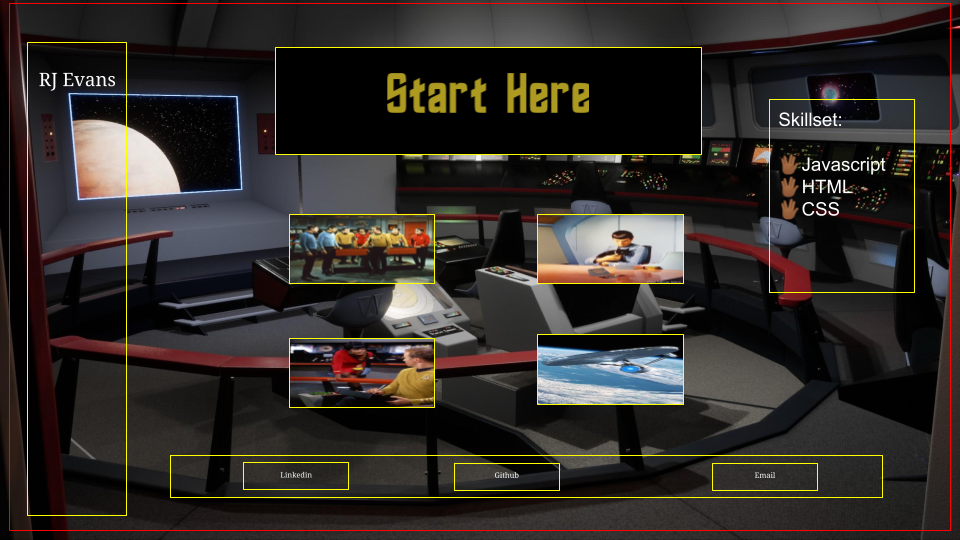
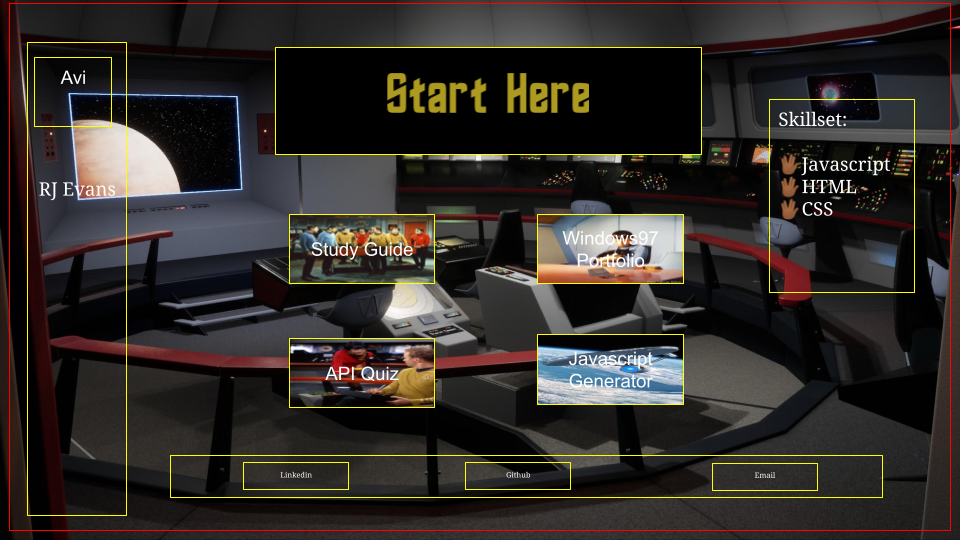
new css/reset updated html new assets

diff --git a/index.html b/index.html
@@ -1,20 +1,79 @@
 <!DOCTYPE html>
-<html lang="en">
-<head>
-    <meta charset="UTF-8">
-    <meta http-equiv="X-UA-Compatible" content="IE=edge">
-    <meta name="viewport" content="width=device-width, initial-scale=1.0">
-    <title>RJ The Original Series</title>
-</head>
-<body>
+<lang="en">
 
+    <head>
+        <meta charset="UTF-8" />
+        <meta http-equiv="X-UA-Compatible" content="IE=edge" />
+        <meta name="viewport" content="width=device-width, initial-scale=1.0" />
+        <title>RJ's Trekfolio</title>
+        <!--title was changed AFTER changes pushed to repo, repo index does not have this title-->
+        <link rel="stylesheet" type="text/css" href="assets/style.css" />
+        <link rel="stylesheet" type="text/css" href="assets/reset.css" />
 
-    <na>
-
-        <img src=""/> <!--needs "start here img inserted, recreate"-->
-    </na>
+    <!--ADD ALT TEXT TO ALL IMG TAGS-->
+    </head>
+    <img>
+    <nav>
+       <button> <img src="assets/starthere.JPG">
+        <!--needs "start here img inserted, recreate"--> <!--add button functionality-->
+    </button>
+    </nav>
 
     <!--add background img to html with css-->
-    
-</body>
-</html>
+
+    <aside class="Name">
+        <h1>RJ Evans</h1>
+    </aside>
+
+    <aside class="Skills">
+        <h2>Skillset:</h2>
+
+        <ol>
+
+            <li>🖖🏾Javascript</li>
+            <br><br>
+            <li>🖖🏾HTML</li>
+            <br><br>
+            <li>🖖🏾CSS</li>
+            <br><br>
+        </ol>
+    </aside>
+
+
+    <a href="https://are-jae.github.io/preworkstudyguide/" target="_blank" rel="noopener noreferrer">
+
+        <p>Study Guide</p>
+        <img src="assets/fullbridgecrew.jpg">
+
+    </a>
+
+    <a href="https://are-jae.github.io/Windows97Portfolio/" target="_blank" rel="noopener noreferrer">
+
+        <p>Windows97 Portfolio</p> <!--reformat to match reset css in alt doc-->
+
+        <img src="assets/spockcat.jpg">
+    </a>
+
+    <a href=""  target="_blank" rel="noopener noreferrer"> <!--add deployed link to API challenge when loaded-->
+
+
+    <img src="assets/kirkhura.jpg">
+
+    <p>API Quiz</p>
+</a>
+
+
+
+
+<footer>
+
+    <a href="https://www.linkedin.com/in/arejay7/" target="_blank" rel="noopener noreferrer"></a>
+
+    <a href="https://github.com/Are-Jae" target="_blank" rel="noopener noreferrer"></a>
+
+    <a href = "mailto: evansraven7@gmail.com"></a>
+</footer>
+    </body>
+ 
+
+    </html>

diff --git a/assets/style.css b/assets/style.css
@@ -1,0 +1,21 @@
+body{
+    background: url(USS1.jpg) no-repeat fixed scroll center;
+
+
+}
+
+nav{
+    display:inline;
+    justify-content: center;
+
+}
+
+
+a {
+
+
+
+}
+
+
+

diff --git a/assets/reset.css b/assets/reset.css
@@ -1,0 +1,24 @@
+body{
+    background: url(USS1.jpg) no-repeat fixed center;
+
+
+}
+
+nav{
+    display:flex;
+    justify-content: center;
+
+}
+
+
+
+
+
+a {
+
+
+
+}
+
+
+

diff --git a/README.md b/README.md
@@ -1,11 +1,30 @@
 # RJTheOriginalSeries
-A portfolio showcasing my current skillset, projects and love of Star Trek: The Original Series
+A portfolio showcasing my current skillset, projects and love of Star Trek: The Original Series. I did not add a bio section due to there being a link within my weboage that leads to a separate portfolio I'm working on outside of this project. This project is located within this folder and will open as an external webpage:
+
+![(assets/RJTheOriginalSeries.png)]
 
 
-## User Story
+All of my project links will open to the deployed website. 
 
+## User Story 
+AS AN employer
+I WANT to view a potential employee's deployed portfolio of work samples
+SO THAT I can review samples of their work and assess whether they're a good candidate for an open position
 
 ## Acceptaince Criteria
+GIVEN I need to sample a potential employee's previous work
+WHEN I load their portfolio
+THEN I am presented with the developer's name, a recent photo or avatar, and links to sections about them, their work, and how to contact them
+WHEN I click one of the links in the navigation
+THEN the UI scrolls to the corresponding section
+WHEN I click on the link to the section about their work
+THEN the UI scrolls to a section with titled images of the developer's applications
+WHEN I am presented with the developer's first application
+THEN that application's image should be larger in size than the others
+WHEN I click on the images of the applications
+THEN I am taken to that deployed application
+WHEN I resize the page or view the site on various screens and devices
+THEN I am presented with a responsive layout that adapts to my viewport
 
 
 ## Installation
@@ -24,7 +43,8 @@ n/a
 https://github.com/Are-Jae/RJTheOriginalSeries
 
 
-## Wireframe ![C:\Users\raven\Desktop\RJTheOriginalSeries.png] 
+## Wireframe 
+![(C:\Users\raven\Desktop\RJTheOriginalSeries.png)] 
 
 ## License
 
